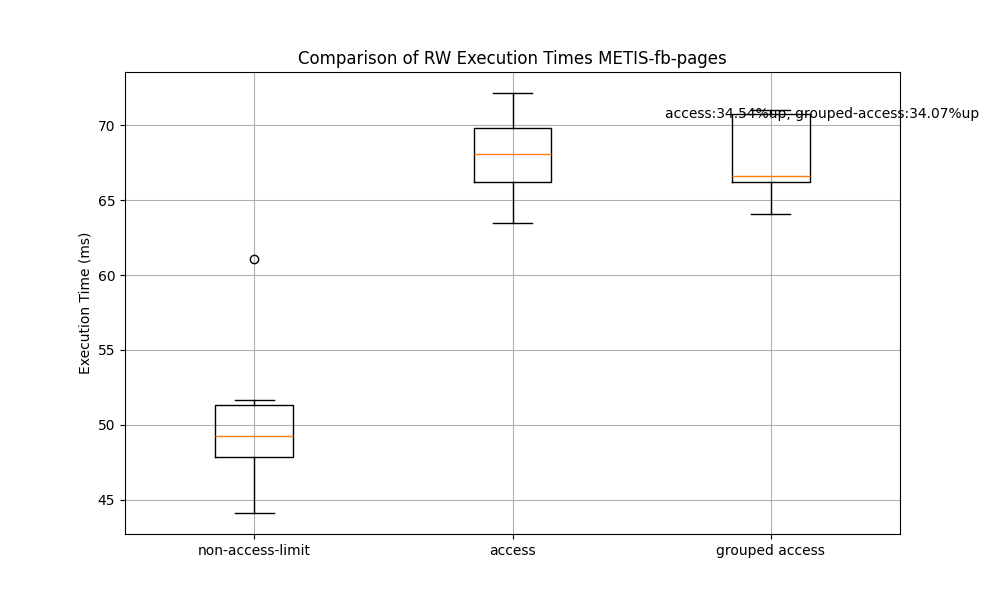
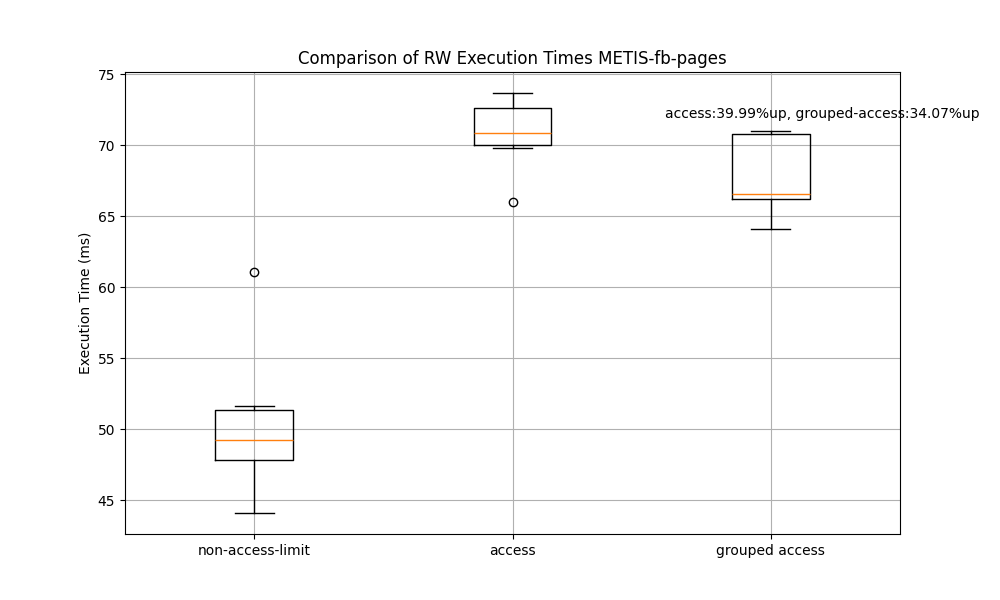
modify algo
始点ベースではコミュニティもクソもないので、アルゴリズムを修正した

diff --git a/new-algo/algo/nogroup-main.cpp b/new-algo/algo/nogroup-main.cpp
@@ -143,50 +143,57 @@ vector<int> random_walk(int& total_move, int START_NODE, int start_community) {
 
         // 隣接ノードからランダムに次のノードを選択
         //ここで一回のコミュニティの移動後は、ng_list以外を参照できるようにしたい
-        int next_node;
-        do {
-            // 隣接ノードからランダムに次のノードを選択
-            next_node = *next(neighbors.begin(), rand() % neighbors.size());
+        // int next_node;
+        // do {
+        //     // 隣接ノードからランダムに次のノードを選択
+        //     next_node = *next(neighbors.begin(), rand() % neighbors.size());
 
-            //TODO;同じコミュニティに対しては、NGに指定していないので、ような場合はないとできる
-            if (ng_list.find(next_node) != ng_list.end()) {
-                std::cout << "NGなのでスキップ" << next_node << std::endl;
-                next_node = current_node;  // 現在のノードに戻す
-            }
+        //     //TODO;同じコミュニティに対しては、NGに指定していないので、ような場合はないとできる
+        //     // if (ng_list.find(next_node) != ng_list.end()) {
+        //     //     std::cout << "NGなのでスキップ" << next_node << std::endl;
+        //     //     next_node = current_node;  // 現在のノードに戻す
+        //     // }
 
-        } while (ng_list.find(next_node) != ng_list.end());  // NGノードの場合、繰り返す
-        //ここまで
+        // } while (ng_list.find(next_node) != ng_list.end());  // NGノードの場合、繰り返す
+        // //ここまで
 
-        // 現在のノードとHop先のコミュニティが異なる場合
+
 
         // リストから次にHopするノードを探す（縦）
         //あった場合は、その配列の中から、自分のさっきまでいたノードを探す
         //配列の中に現在のノードがあった場合には、移動を止める、なかった場合には、次のノードに進む
+        // 隣接ノードからランダムに次のノードを選択
+        int next_node;
+        next_node = *next(neighbors.begin(), rand() % neighbors.size());
         std::cout << "start_node; next_node" << START_NODE << next_node << std::endl;
 
-        if (node_communities[current_node] != node_communities[next_node]) {    // 次のコミュニティと現在のコミュニティが異なっていたら
-            std::string a;
+        // if (node_communities[current_node] != node_communities[next_node]) {    // 次のコミュニティと現在のコミュニティが異なっていたら
 
-            auto it = ng_table.find(next_node);
-            if (it != ng_table.end()) {
-                std::cout << "NG nodes for node " << next_node << ": ";
-                for (int num : it->second) {
-                    std::cout << num << " ";
-                    a += std::to_string(num) + " "; // ノードを文字列に追加
-                }
-                std::cout << std::endl;
-            }
 
-            // START_NODEが文字列aに含まれているか確認
-            if (a.find(std::to_string(START_NODE)) != std::string::npos) {
-                std::cout << "Node " << START_NODE << " is in the NG nodes for community " << current_node << std::endl;
-                next_node = current_node;  // 現在のノードに戻す
-                continue;
+        std::string a;
+
+        auto it = ng_table.find(next_node);
+        printf("ここには全部到達l");
+        //次にHopするノードがNGノードの候補として上がっているのか(左一列)
+        if (it != ng_table.end()) {
+            std::cout << "NG nodes for node " << next_node << ": ";
+            for (int num : it->second) {
+                std::cout << num << " ";
+                a += std::to_string(num) + " "; // ノードを文字列に追加
             }
-            else {
-                std::cout << "Node " << START_NODE << " is not in the NG nodes for community " << current_node << std::endl;
-            }
+            std::cout << std::endl;
         }
+
+        // START_NODEが文字列aに含まれているか確認
+        if (a.find(std::to_string(START_NODE)) != std::string::npos) {
+            std::cout << "Node " << START_NODE << " is in the NG nodes for community " << current_node << std::endl;
+            next_node = current_node;  // 現在のノードに戻す
+            continue;
+        }
+        else {
+            std::cout << "Node " << START_NODE << " is not in the NG nodes for community " << current_node << std::endl;
+        }
+        // }
         move_count++;
 
         path.push_back(next_node);

diff --git a/new-algo/result/plt-hige.py b/new-algo/result/plt-hige.py
@@ -34,7 +34,7 @@ def correct_execution_times(count1, count2, count3, time1, time2, time3):
     print(count1)
     print(count2)
     print(count3)
-    alpha2 = 1
+    alpha2 = count1 / count2
     alpha3 = count1 / count3
 
     print(f"alpha2: {alpha2}")
